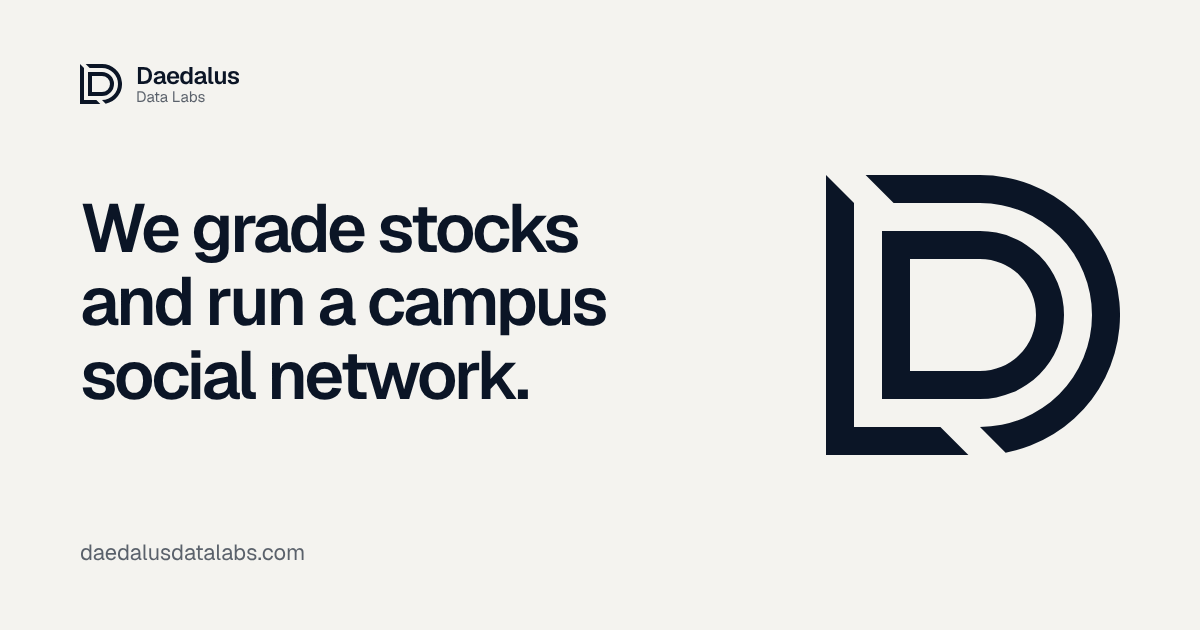
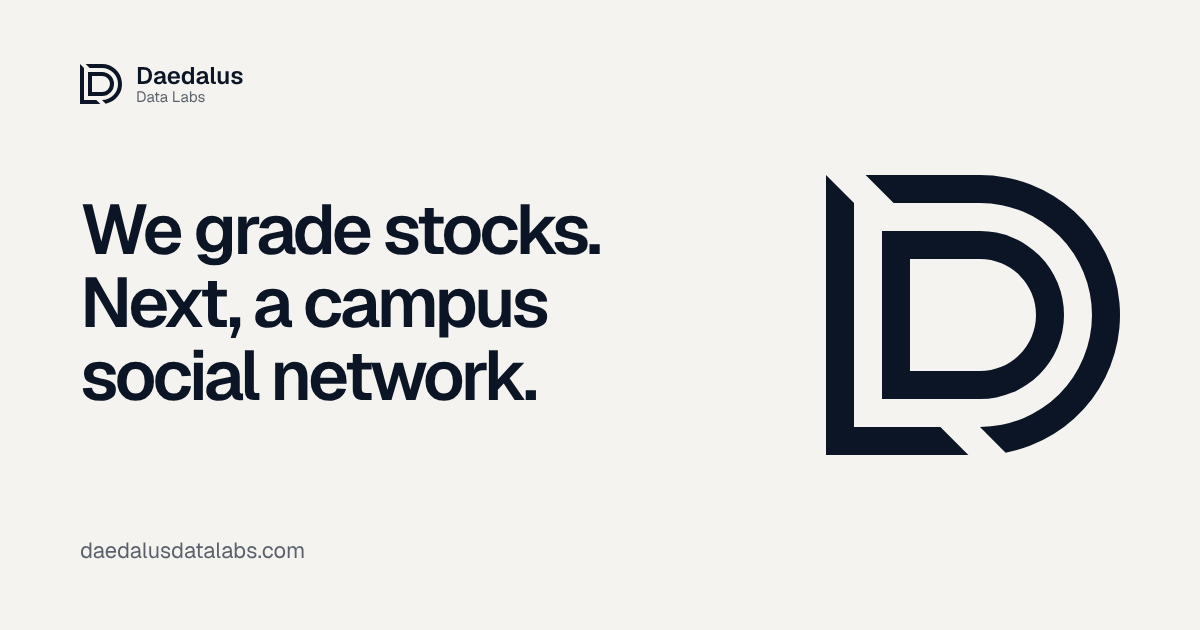
Site: Agora is in development
Headline is now 'We grade stocks. Next, a campus social network.' The Agora
section carries an In development badge, its points describe what Agora will
do, and its button follows progress instead of inviting sign-up. The lede,
About, meta descriptions and the OG image say the same. Cache-bust og.png
and site.css to v=6.

Claude-Session: https://claude.ai/code/session_01RmyFZ3rqkXBx3yodwMfC74

Changed region(s): [[0.0617, 0.3317, 0.5242, 0.6333], [0.0617, 0.8444, 0.2467, 0.9048], [0.1233, 0.0905, 0.2158, 0.1508]]

diff --git a/index.html b/index.html
@@ -4,14 +4,14 @@
 <meta charset="utf-8">
 <meta name="viewport" content="width=device-width, initial-scale=1">
 <title>Daedalus Data Labs</title>
-<meta name="description" content="Daedalus Data Labs makes Meridian, which grades US-listed stocks and funds from 0 to 10 and publishes its method, and Agora, a social network open only to people with a verified US university address.">
+<meta name="description" content="Daedalus Data Labs makes Meridian, which grades US-listed stocks and funds from 0 to 10 and publishes its method. In development: Agora, a social network open only to people with a verified US university address.">
 <meta property="og:title" content="Daedalus Data Labs">
-<meta property="og:description" content="Meridian grades US-listed stocks and funds from 0 to 10 and publishes its method. Agora is a social network for people with a verified US university address.">
-<meta property="og:image" content="https://daedalusdatalabs.com/assets/og.png?v=5">
+<meta property="og:description" content="Meridian grades US-listed stocks and funds from 0 to 10 and publishes its method. In development: Agora, a social network for people with a verified US university address.">
+<meta property="og:image" content="https://daedalusdatalabs.com/assets/og.png?v=6">
 <meta property="og:image:width" content="1200">
 <meta property="og:image:height" content="630">
-<meta property="og:image:alt" content="The Daedalus Data Labs mark, an L and two Ds drawn as a labyrinth, beside the headline: We grade stocks and run a campus social network. daedalusdatalabs.com">
-<meta name="twitter:image:alt" content="The Daedalus Data Labs mark, an L and two Ds drawn as a labyrinth, beside the headline: We grade stocks and run a campus social network. daedalusdatalabs.com">
+<meta property="og:image:alt" content="The Daedalus Data Labs mark, an L and two Ds drawn as a labyrinth, beside the headline: We grade stocks. Next, a campus social network. daedalusdatalabs.com">
+<meta name="twitter:image:alt" content="The Daedalus Data Labs mark, an L and two Ds drawn as a labyrinth, beside the headline: We grade stocks. Next, a campus social network. daedalusdatalabs.com">
 <meta name="twitter:card" content="summary_large_image">
 <meta property="og:url" content="https://daedalusdatalabs.com">
 <meta name="theme-color" content="#F4F3EF">
@@ -23,7 +23,7 @@
 <link rel="preconnect" href="https://fonts.googleapis.com">
 <link rel="preconnect" href="https://fonts.gstatic.com" crossorigin>
 <link rel="stylesheet" href="https://fonts.googleapis.com/css2?family=Geist:wght@400;500;600;700&display=swap">
-<link rel="stylesheet" href="/assets/site.css?v=5">
+<link rel="stylesheet" href="/assets/site.css?v=6">
 <script>document.documentElement.classList.add('js');try{if(localStorage.getItem('daedalus-theme')==='dark')document.documentElement.dataset.theme='dark'}catch(e){}</script>
 </head>
 <body>
@@ -50,8 +50,8 @@
       <svg class="hero-grid" viewBox="-21 -20 84 80"><defs><pattern id="grid" width="4" height="4" patternUnits="userSpaceOnUse"><path d="M4 0H0V4"/></pattern><radialGradient id="grid-fade"><stop offset=".35" stop-color="#fff"/><stop offset="1" stop-color="#fff" stop-opacity="0"/></radialGradient><mask id="grid-mask"><rect x="-21" y="-20" width="84" height="80" fill="url(#grid-fade)"/></mask></defs><rect x="-21" y="-20" width="84" height="80" fill="url(#grid)" mask="url(#grid-mask)"/><path class="cut" d="M-6 -6L14 14M-.343 -6L19.657 14M9.172 26L31.172 48"/></svg>
       <svg class="hero-mark" viewBox="0 0 42 40"><g class="ink"><path class="part-l" d="M0 0L4 4L4 36L16.343 36L20.343 40L0 40Z"/><path class="part-d" d="M25.662 39.662A20 20 0 0 0 22 0L5.657 0L9.657 4L22 4A16 16 0 0 1 22 36Z"/><path class="part-i" d="M8 8L22 8A12 12 0 0 1 22 32L8 32ZM12 12L12 28L22 28A8 8 0 0 0 22 12Z"/></g></svg>
     </div>
-    <h1>We grade stocks and run a campus social network.</h1>
-    <p class="lede">Meridian grades US-listed stocks and funds from 0 to 10 and publishes how each grade is calculated. Agora is a social network open only to people with a verified US university address, where each campus sees only its own posts.</p>
+    <h1>We grade stocks. Next, a campus social network.</h1>
+    <p class="lede">Meridian grades US-listed stocks and funds from 0 to 10 and publishes how each grade is calculated. Agora, now in development, is a social network open only to people with a verified US university address, where each campus sees only its own posts.</p>
   </section>
 
   <section class="product meridian" id="meridian">
@@ -82,21 +82,21 @@
   <section class="product agora" id="agora">
     <figure class="reveal shot phone">
       <img data-tilt="y" src="/assets/products/agora-home.webp" width="780" height="1688" loading="lazy" alt="Agora's front page on a phone: Agora is a social network for your campus, with buttons to create an account or sign in.">
-      <figcaption>Agora's front page.</figcaption>
+      <figcaption>Agora's front page, in development.</figcaption>
     </figure>
     <div class="reveal product-copy">
       <img class="product-icon" src="/assets/products/agora.svg" width="64" height="64" alt="">
       <h2>Agora</h2>
+      <p class="status">In development</p>
       <p class="tagline">A social network for one campus at a time.</p>
       <ol class="method">
-        <li><span>Every member has verified a US university address.</span></li>
-        <li><span>Posts, groups and student organizations are visible only to members of the same campus.</span></li>
-        <li><span>The feed is newest first. Posts from your groups, friends and people you follow are moved up, and the Latest view shows strict time order.</span></li>
-        <li><span>It is free, and joining takes about two minutes.</span></li>
+        <li><span>Every member will verify a US university address.</span></li>
+        <li><span>Posts, groups and student organizations will be visible only to members of the same campus.</span></li>
+        <li><span>The feed will be newest first. Posts from your groups, friends and people you follow will move up, and a Latest view will show strict time order.</span></li>
+        <li><span>We are building it now, and will publish how the feed is ordered before it opens.</span></li>
       </ol>
       <div class="actions">
-        <a class="button" href="https://agoraoncampus.com">Visit Agora</a>
-        <a class="text-link" href="https://agoraoncampus.com/universities">See the campuses</a>
+        <a class="button" href="https://agoraoncampus.com">Follow Agora's progress</a>
       </div>
     </div>
   </section>
@@ -104,7 +104,7 @@
   <section class="closing">
     <div id="about">
       <h2>About</h2>
-      <p>Daedalus Data Labs builds and runs Meridian and Agora. Both publish how they work: Meridian its grading method, Agora the order of its feed. The name comes from Daedalus, the craftsman of Greek myth who built the labyrinth. The mark is drawn like one: an L and a D on the outside, with a second D inside, which spells DaeDaLus and Data Labs. Every stroke and every gap is the same width, and every cut is at 45 degrees.</p>
+      <p>Daedalus Data Labs builds and runs Meridian, and is building Agora. Both publish how they work: Meridian its grading method, and Agora, when it opens, the order of its feed. The name comes from Daedalus, the craftsman of Greek myth who built the labyrinth. The mark is drawn like one: an L and a D on the outside, with a second D inside, which spells DaeDaLus and Data Labs. Every stroke and every gap is the same width, and every cut is at 45 degrees.</p>
     </div>
     <div id="contact">
       <h2>Contact</h2>

diff --git a/assets/site.css b/assets/site.css
@@ -68,6 +68,7 @@ body::before{content:"";position:fixed;inset:0;z-index:-2;pointer-events:none;ba
 .product.agora{grid-template-columns:minmax(0,6fr) minmax(0,5fr)}
 .product-icon{width:64px;height:64px;border-radius:15px;display:block;margin-bottom:26px;box-shadow:var(--shadow)}
 .product h2{font-size:clamp(36px,4.4vw,52px);line-height:1;font-weight:600;letter-spacing:-.04em;margin:0 0 6px}
+.product .status{display:inline-block;margin:10px 0 16px;padding:4px 11px;border:1px solid var(--line);border-radius:999px;background:var(--paper);font-size:12px;font-weight:600;letter-spacing:.06em;text-transform:uppercase;color:var(--muted)}
 .tagline{font-size:22px;line-height:1.3;font-weight:500;letter-spacing:-.015em;margin:0 0 18px}
 .product-copy p:not(.tagline){color:var(--muted);margin:0 0 28px;max-width:46ch}
 .method{list-style:none;margin:6px 0 32px;padding:0;max-width:48ch;counter-reset:step}
